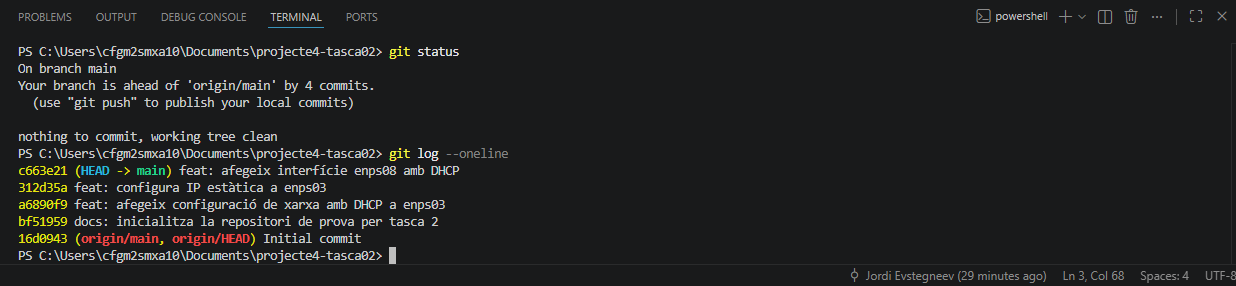
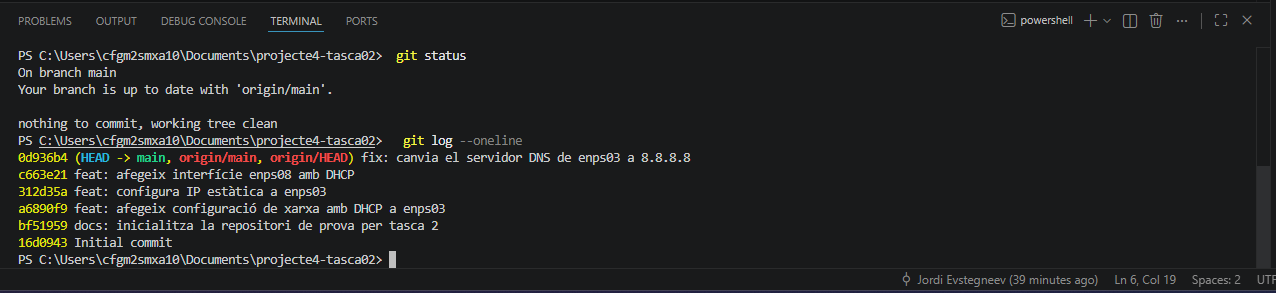
docs: corregeix Tasca02 i afegeix explicacions

diff --git a/Tasca02/solucions.md b/Tasca02/solucions.md
@@ -12,7 +12,7 @@ git add 00-installer-config.yaml
 git commit -m "feat: afegeix configuració de xarxa amb DHCP a enps03"
 ```
 
-**Explicació:** 
+**Explicació:** Docs és documentació i feat és una funcionalitat nova. Els missatges segueixen el format "tipus: descripció".
 
 ---
 
@@ -34,7 +34,7 @@ git show HEAD
 
 ![Darrer commit a Git Graph](img/05.png)
 
-**Explicació:** 
+**Explicació:** Git log mostra el hash, l'autor, el correu, la data i el missatge de cada commit. git log --oneline només mostra el hash curt i el missatge. HEAD apunta al darrer commit.
 
 ---
 
@@ -50,7 +50,7 @@ git status
 
 ![git restore i git status net](img/07.png)
 
-**Explicació:** 
+**Explicació:** Git restore desfà els canvis del working directory que encara no tenen commit. Després el git status surt net.
 
 ---
 
@@ -70,7 +70,8 @@ git log --oneline
 ### Revert
 
 ```bash
-git revert <hash-del-commit>
+git revert --no-commit HEAD~3..HEAD
+git commit -m "revert: torna a la configuració DHCP inicial de enps03"
 ```
 
 ![Revert a Git Graph](img/09.png)
@@ -94,4 +95,4 @@ git log --oneline
 
 ![git status i git log després del reset](img/13.png)
 
-**Explicació:** 
+**Explicació:** El revert no esborra commits, en crea un de nou que desfà els canvis. El reset sí que esborra el commit, per això no es recomana.
